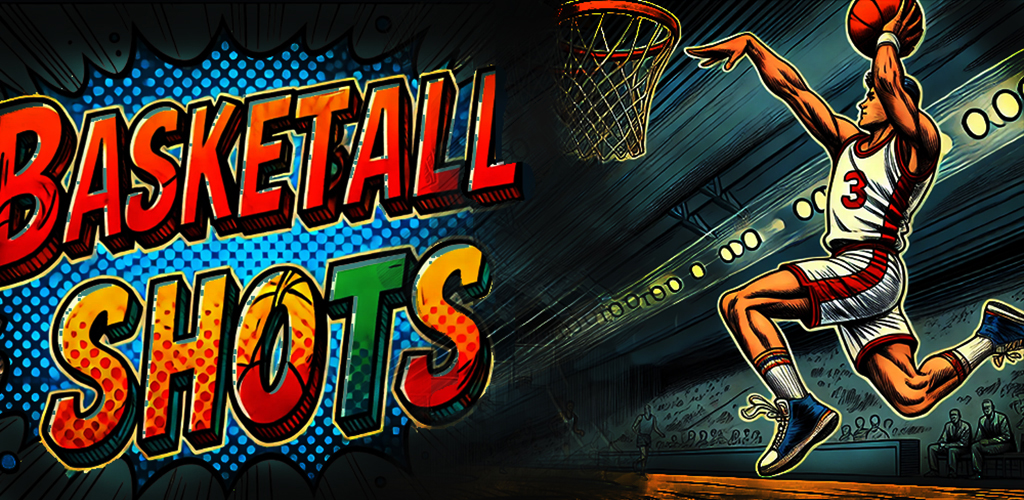
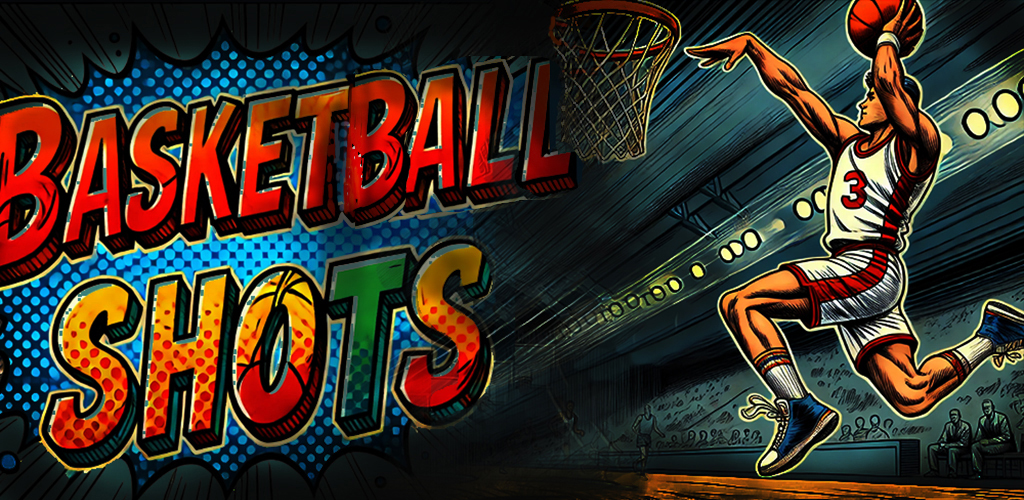
typo correct

Changed region(s): [[0.0, 0.03, 0.625, 0.93], [0.5625, 0.0, 0.6562, 0.03], [0.625, 0.93, 0.6875, 0.96]]

diff --git a/src/app/game/game.component.ts b/src/app/game/game.component.ts
@@ -6,7 +6,7 @@ import { CapacitorSQLite, SQLiteDBConnection, SQLiteConnection } from '@capacito
 import { Player} from './../models/player';
 import { GameStateService } from '../services/game-state.service';
 import { VolumeService } from '../services/volume.service';
-
+import { AdMob, InterstitialAdPluginEvents } from '@capacitor-community/admob';
 interface Team {
   name: string;
   players: Player[];
@@ -735,11 +735,85 @@ onCanvasClick(event: MouseEvent) {
     this.angle = 45;
   }
 
-  quitGame() {
+  // async quitGame() {
+  //   if (window.confirm("Are you sure you want to quit?")) {
+  //   //test interstitial ad unit ID for development
+  //   const testAdId = 'ca-app-pub-9509918464023539/7529512361'; //this is prod id  //change on test id:   ca-app-pub-3940256099942544/1033173712
+  //   try {
+  //     console.log('Preparing interstitial ad for quit action...');
+  //     await AdMob.prepareInterstitial({ adId: testAdId });
+  //     console.log('Interstitial ad prepared. Now showing ad...');
+  //     await AdMob.showInterstitial();
+  //     console.log('Interstitial ad was displayed and dismissed.');
+  //   } catch (error) {
+  //     console.error('Error loading or showing interstitial ad on quit:', error);
+  //   }
+
+  //     this.resetGame();
+  //   }
+  // }
+
+  async quitGame() {
     if (window.confirm("Are you sure you want to quit?")) {
+      const adIdToUse = 'ca-app-pub-9509918464023539/8637232401'; // Your prod ID
+      let adLoadedSuccessfully = false; // Flag to track load status
+      let loadAttemptComplete = false; // Flag to indicate load process finished (success or failure)
+  
+      // --- Add Listeners *before* preparing the ad ---
+      const loadedListener = AdMob.addListener(InterstitialAdPluginEvents.Loaded, () => {
+          console.log('Interstitial ad finished loading.');
+          adLoadedSuccessfully = true;
+          loadAttemptComplete = true; // Mark attempt as complete
+      });
+  
+      const failedToLoadListener = AdMob.addListener(InterstitialAdPluginEvents.FailedToLoad, (error) => {
+          console.error('Interstitial ad failed to load:', error);
+          adLoadedSuccessfully = false; // Ensure flag is false on failure
+          loadAttemptComplete = true; // Mark attempt as complete
+      });
+  
+      try {
+        console.log('Preparing interstitial ad...');
+        // prepareInterstitial starts the loading process. It does NOT wait for the ad to load.
+        await AdMob.prepareInterstitial({ adId: adIdToUse });
+  
+        // --- Wait for the adLoadedSuccessfully flag or a timeout ---
+        // We'll wait here until either the loaded or failed event sets loadAttemptComplete to true
+        const maxWaitTime = 5000; // 5 seconds timeout for loading
+        const startTime = Date.now();
+  
+        console.log('Waiting for interstitial ad to load...');
+        while (!loadAttemptComplete && (Date.now() - startTime) < maxWaitTime) {
+            await new Promise(resolve => setTimeout(resolve, 50)); // Wait a little before checking flags again
+        }
+  
+        // Check if the ad actually loaded within the time limit
+        if (adLoadedSuccessfully) {
+           console.log('Interstitial ad is ready. Now showing ad...');
+           await AdMob.showInterstitial();
+           console.log('Interstitial ad was displayed and dismissed.');
+           // Optional: Listen for InterstitialAdPluginEvents.Dismissed here if needed
+        } else {
+           console.log('Interstitial ad not loaded or timed out, skipping show.');
+        }
+  
+      } catch (error) {
+        // This catch is for errors during the prepare or show calls themselves,
+        // not the ad loading failure which is handled by the FailedToLoad listener.
+        console.error('Error during interstitial ad prepare/show process:', error);
+      } finally {
+          // --- Clean up listeners ---
+          console.log('Removing ad listeners.');
+          if (loadedListener) loadedListener.remove();
+          if (failedToLoadListener) failedToLoadListener.remove();
+      }
+  
+      // Always reset the game state regardless of ad success/failure
       this.resetGame();
     }
   }
+
+
     // Access properties directly
     get team1Name() { return this.gameStateService.team1.name; }
     get team2Name() { return this.gameStateService.team2.name; }
@@ -757,8 +831,11 @@ onCanvasClick(event: MouseEvent) {
     this.gameStateService.team2Points = this.team2Points;
     this.resetNotFull();
     this.router.navigate(['/summary']);
-    return;
+    //only for test
     //this.resetGame();
+    return;
+
+    
   }
 
   resetNotFull(){

diff --git a/src/app/summary/summary.component.ts b/src/app/summary/summary.component.ts
@@ -6,6 +6,7 @@ import { App } from '@capacitor/app';
 import { Player } from '../models/player';
 import { GameStateService } from '../services/game-state.service';
 import { VolumeService } from '../services/volume.service';
+import { AdMob } from '@capacitor-community/admob';
 
 interface Team {
   name: string;
@@ -79,6 +80,49 @@ export class SummaryComponent implements OnInit {
   });
   }
 
+  // Called on "Return to Menu" button click.
+  async goToMenu() {
+    // Define the test interstitial ad unit ID provided by Google
+    const testInterstitialAdId = 'ca-app-pub-9509918464023539/1003953263';  //  prod id       //here is   test id: ca-app-pub-3940256099942544/1033173712
+    try {
+      // Prepare the interstitial ad
+      await AdMob.prepareInterstitial({
+        adId: testInterstitialAdId,
+        // Optional: additional configuration can be provided here.
+      });
+      console.log('Interstitial ad prepared.');
+
+      // Show the interstitial ad
+      await AdMob.showInterstitial();
+      console.log('Interstitial ad shown.');
+
+      // If the plugin does not resolve only after the ad is dismissed, you can use an event listener:
+      // AdMob.addListener('interstitialDismissed', () => {
+      //   console.log('Ad dismissed. Navigating to menu.');
+      //   this.router.navigate(['/menu']);
+      // });
+
+      // For many implementations, the promise resolves upon dismissal.
+      // Proceed to navigate after the ad has been shown/dismissed.
+      this.router.navigate(['/menu']);
+
+    } catch (error) {
+      console.error('!!!!!    Error loading or showing interstitial ad:', error);
+      // Fallback: directly navigate to the menu if the ad fails to load or show.
+
+     
+      //is.gameStateService.resetGameData();
+      //is.router.navigate(['/menu']);
+    }
+    finally {
+      console.log('now reset is been doing');
+      // always clear the service state
+      this.gameStateService.resetGameData();
+      this.router.navigate(['/menu']);
+    }
+  
+  }
+
   loadGameSummary(): void {
   if (this.gameStateService.team1 && this.gameStateService.team2) {
     this.team1 = this.gameStateService.team1;
@@ -97,13 +141,11 @@ export class SummaryComponent implements OnInit {
     }
   }
 
-  goToMenu(): void {
-    console.log('now reset is been doing');
-    this.gameStateService.resetGameData();
-    this.router.navigate(['/']);
-    //this.gameStateService.resetGameData();
-    
-  }
+  // goToMenu(): void {
+  //   console.log('now reset is been doing');
+  //   this.gameStateService.resetGameData();
+  //   this.router.navigate(['/']);
+  // }
 
   private initializeBackgroundMusic(): void {
     this.backgroundMusic = new Audio('assets/drumms.ogg');

diff --git a/src/app/game/game.component.html b/src/app/game/game.component.html
@@ -17,7 +17,7 @@
         <button (mousedown)="startCharge()" (mouseup)="stopCharge()" 
                 (touchstart)="startCharge($event)" (touchend)="stopCharge($event)">
           <img src="../../assets/powerButton.png" class="button-image" alt="Charge">
-          <h2><span *ngIf="this.showTooltips" class ="badge bdg-brown">Hold and release <br> to adjust power</span></h2>
+          <h2><span *ngIf="showTooltips" class ="badge bdg-brown">Hold and release <br> to adjust power</span></h2>
         </button>
 
         <div class="current-shooting">
@@ -28,12 +28,12 @@
 
         <button  (click)="scrollToScores()">
           <img src="../../assets/scoreButton.png" class="button-image" alt="Scores">
-          <h2><span *ngIf="this.showTooltips" class ="badge bdg-brown">Shows Score Table</span></h2>
+          <h2><span *ngIf="showTooltips" class ="badge bdg-brown">Shows Score Table</span></h2>
         </button>
         
         <button (click)="toggleTooltips()">
           <img src="../../assets/infoButton.png" class="button-image" alt="Info">
-          <h2><span *ngIf="this.showTooltips" class ="badge bdg-brown">Tap to hide infos</span></h2>
+          <h2><span *ngIf="showTooltips" class ="badge bdg-brown">Tap to hide infos</span></h2>
         </button>
 
         <!-- Arrow Indicator -->
@@ -53,7 +53,7 @@
 
         <button (click)="endGame()">
           <img src="../../assets/quit-button.png" class="button-image" alt="Quit">
-          <h2><span *ngIf="this.showTooltips" class ="badge bdg-brown">Quit game</span></h2>
+          <h2><span *ngIf="showTooltips" class ="badge bdg-brown">Quit game</span></h2>
         </button>
           <!-- Points Display -->
         <div class="points">

diff --git a/src/app/change-teams/change-teams.component.ts b/src/app/change-teams/change-teams.component.ts
@@ -1,4 +1,5 @@
-import { Component, OnInit } from '@angular/core';
+import { Component, OnInit, AfterViewInit } from '@angular/core';
+import { AdMob, BannerAdOptions, BannerAdPosition, BannerAdSize } from '@capacitor-community/admob';
 import { Router } from '@angular/router';
 import { FormsModule } from '@angular/forms';
 import { CommonModule } from '@angular/common';
@@ -27,6 +28,26 @@ export class ChangeTeamsComponent implements OnInit {
   ngOnInit() {
     this.loadTeams();
   }
+
+  ngAfterViewInit() {
+    this.showBannerAd();
+  }
+
+  async showBannerAd() {
+    const bannerOptions: BannerAdOptions = {
+      adId: 'ca-app-pub-9509918464023539/8867558460', // prod banner ad ID //here is test baner: id:     ca-app-pub-3940256099942544/6300978111
+      position: BannerAdPosition.BOTTOM_CENTER,        // Position at bottom center
+      adSize: BannerAdSize.BANNER,              // Use a responsive size
+      isTesting: false                             // Testing mode enabled                                
+    };
+    try {
+      await AdMob.showBanner(bannerOptions);
+      console.log('Banner ad displayed.');
+    } catch (error) {
+      console.error('Error showing banner ad:', error);
+    }
+  }
+
 
   async saveTeams() {
     await this.sqliteService.saveTeams(this.team1, this.team2);

diff --git a/src/app/app.component.ts b/src/app/app.component.ts
@@ -2,6 +2,9 @@ import { Component } from '@angular/core';
 import { GameComponent } from './game/game.component';
 import { RouterModule } from '@angular/router';
 import { SQLiteService } from './services/sqlite.service';
+import { AdMob } from '@capacitor-community/admob';
+import { Capacitor } from '@capacitor/core';
+
 @Component({
   selector: 'app-root',
   standalone: true,
@@ -14,7 +17,22 @@ export class AppComponent {
 
 constructor(private sqliteService: SQLiteService) {}
 
-async ngOnInit() {
-  await this.sqliteService.initializeDatabase();
-}
+  async ngOnInit() {
+    await this.sqliteService.initializeDatabase();
+  
+
+   // Wait for the Capacitor deviceready event to ensure the native runtime is ready
+   document.addEventListener('deviceready', async () => {
+      try {
+        await AdMob.initialize();
+        console.log('AdMob initialized successfully.');
+      } catch (err) {
+        console.error('Failed to initialize AdMob:', err);
+      }
+      document.addEventListener('deviceready', () => {
+        // Log the list of registered Capacitor plugins
+        console.log('Registered Plugins:', Object.keys(Capacitor.Plugins));
+      }, false);
+   }, false);
+  }
 }

diff --git a/src/app/volume-control/volume-control.component.html b/src/app/volume-control/volume-control.component.html
@@ -1,18 +1,15 @@
 <div class="volume-control">
     <button (click)="toggleMute()">
-      <img
+      <i
         *ngIf="isMuted"
-        src="assets/volume-mute.png"
-        alt="Unmute"
-        class="volume-icon"
-      />
-      <img
+        class="bi bi-volume-off-fill">
+      </i>
+    
+      <i
         *ngIf="!isMuted"
-        src="assets/volume-up.png"
-        alt="Mute"
-        class="volume-icon"
-      />
-    </button>
+        class="bi bi-volume-up-fill">
+    </i>
+  </button>
     <input
       type="range"
       min="0"

diff --git a/src/app/volume-control/volume-control.component.ts b/src/app/volume-control/volume-control.component.ts
@@ -1,10 +1,11 @@
 import { Component } from '@angular/core';
 import { VolumeService } from '../services/volume.service';
+import { CommonModule } from '@angular/common';
 
 @Component({
   selector: 'app-volume-control',
   standalone: true,
-  imports: [],
+  imports: [CommonModule],
   templateUrl: './volume-control.component.html',
   styleUrl: './volume-control.component.scss'
 })

diff --git a/src/app/start-screen/start-screen.component.html b/src/app/start-screen/start-screen.component.html
@@ -19,6 +19,8 @@
         <label for="volume">Volume:</label>
             <input id="volume" type="range" min="0" max="1" step="0.1" [(ngModel)]="musicVolume" (change)="updateMusicVolume()" />
     </div> -->
+    
+    
     <app-volume-control></app-volume-control>
 </div>
   

diff --git a/src/app/volume-control/volume-control.component.scss b/src/app/volume-control/volume-control.component.scss
@@ -5,6 +5,10 @@
     top: 10px;
     right: 10px;
     z-index: 10;
+    color:rgb(39, 73, 73);
+    background-color: none;
+    opacity: 70%;
+    border-radius: 10%;
   }
   .volume-icon {
     width: 30px;
